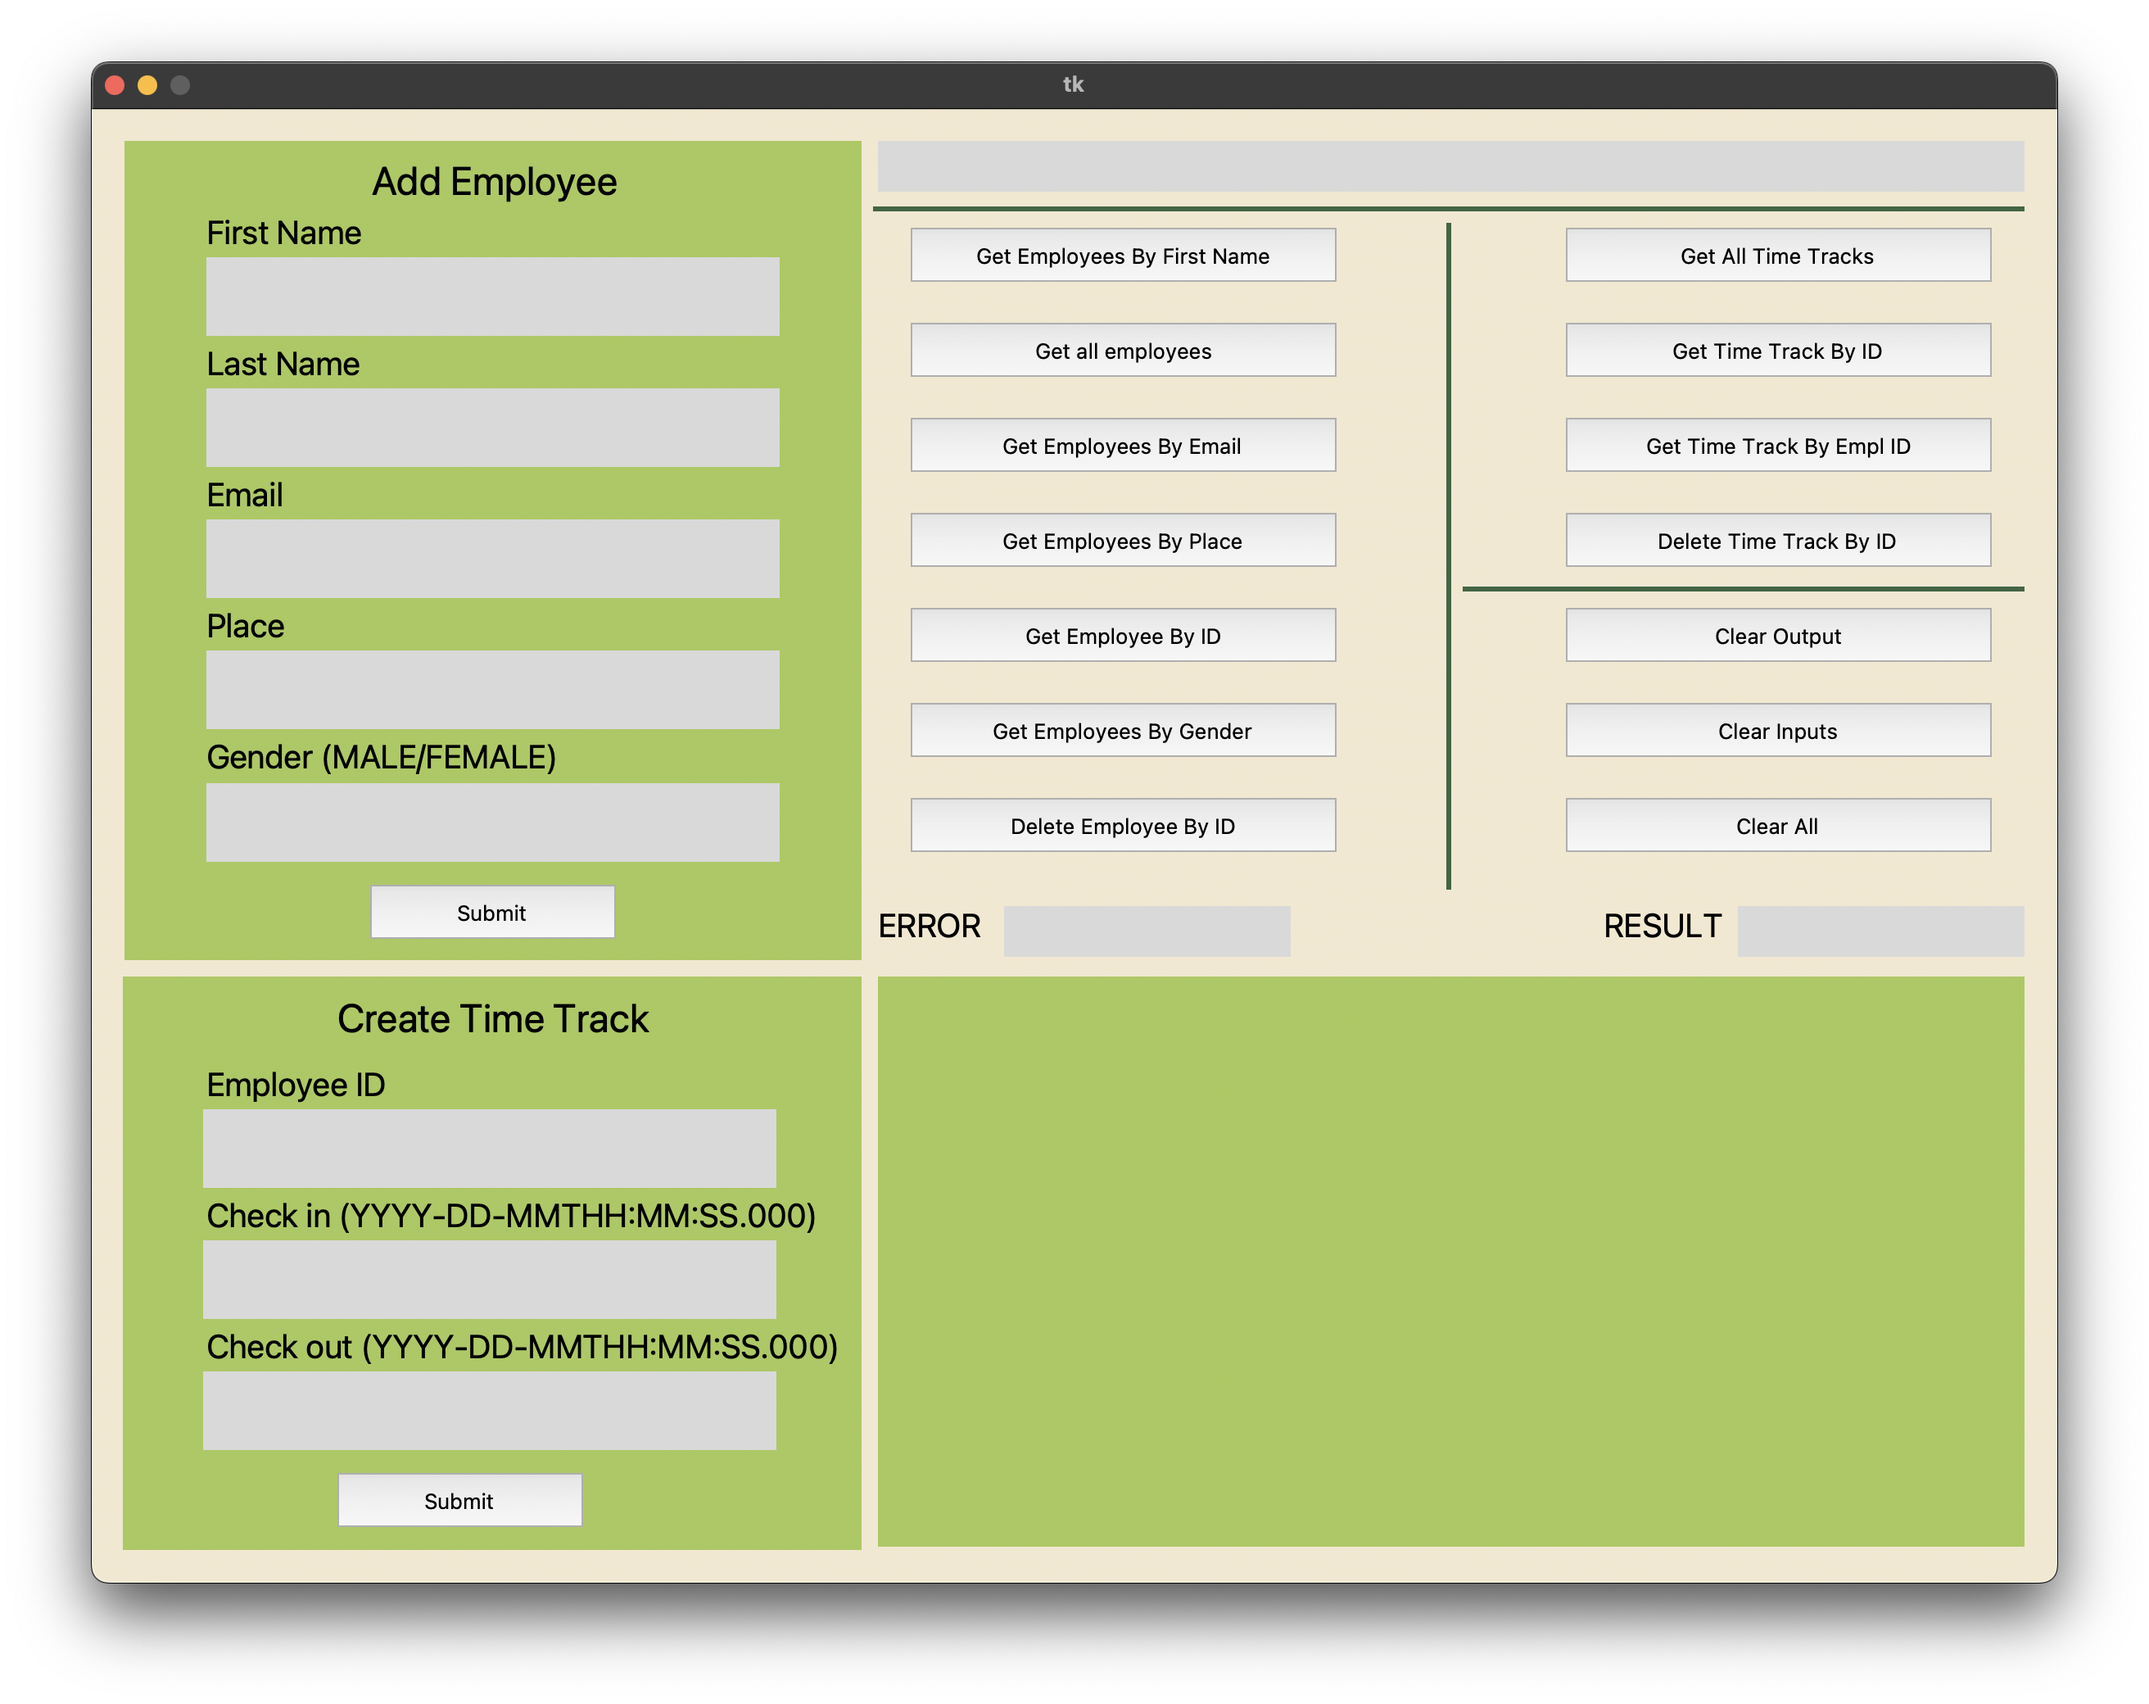
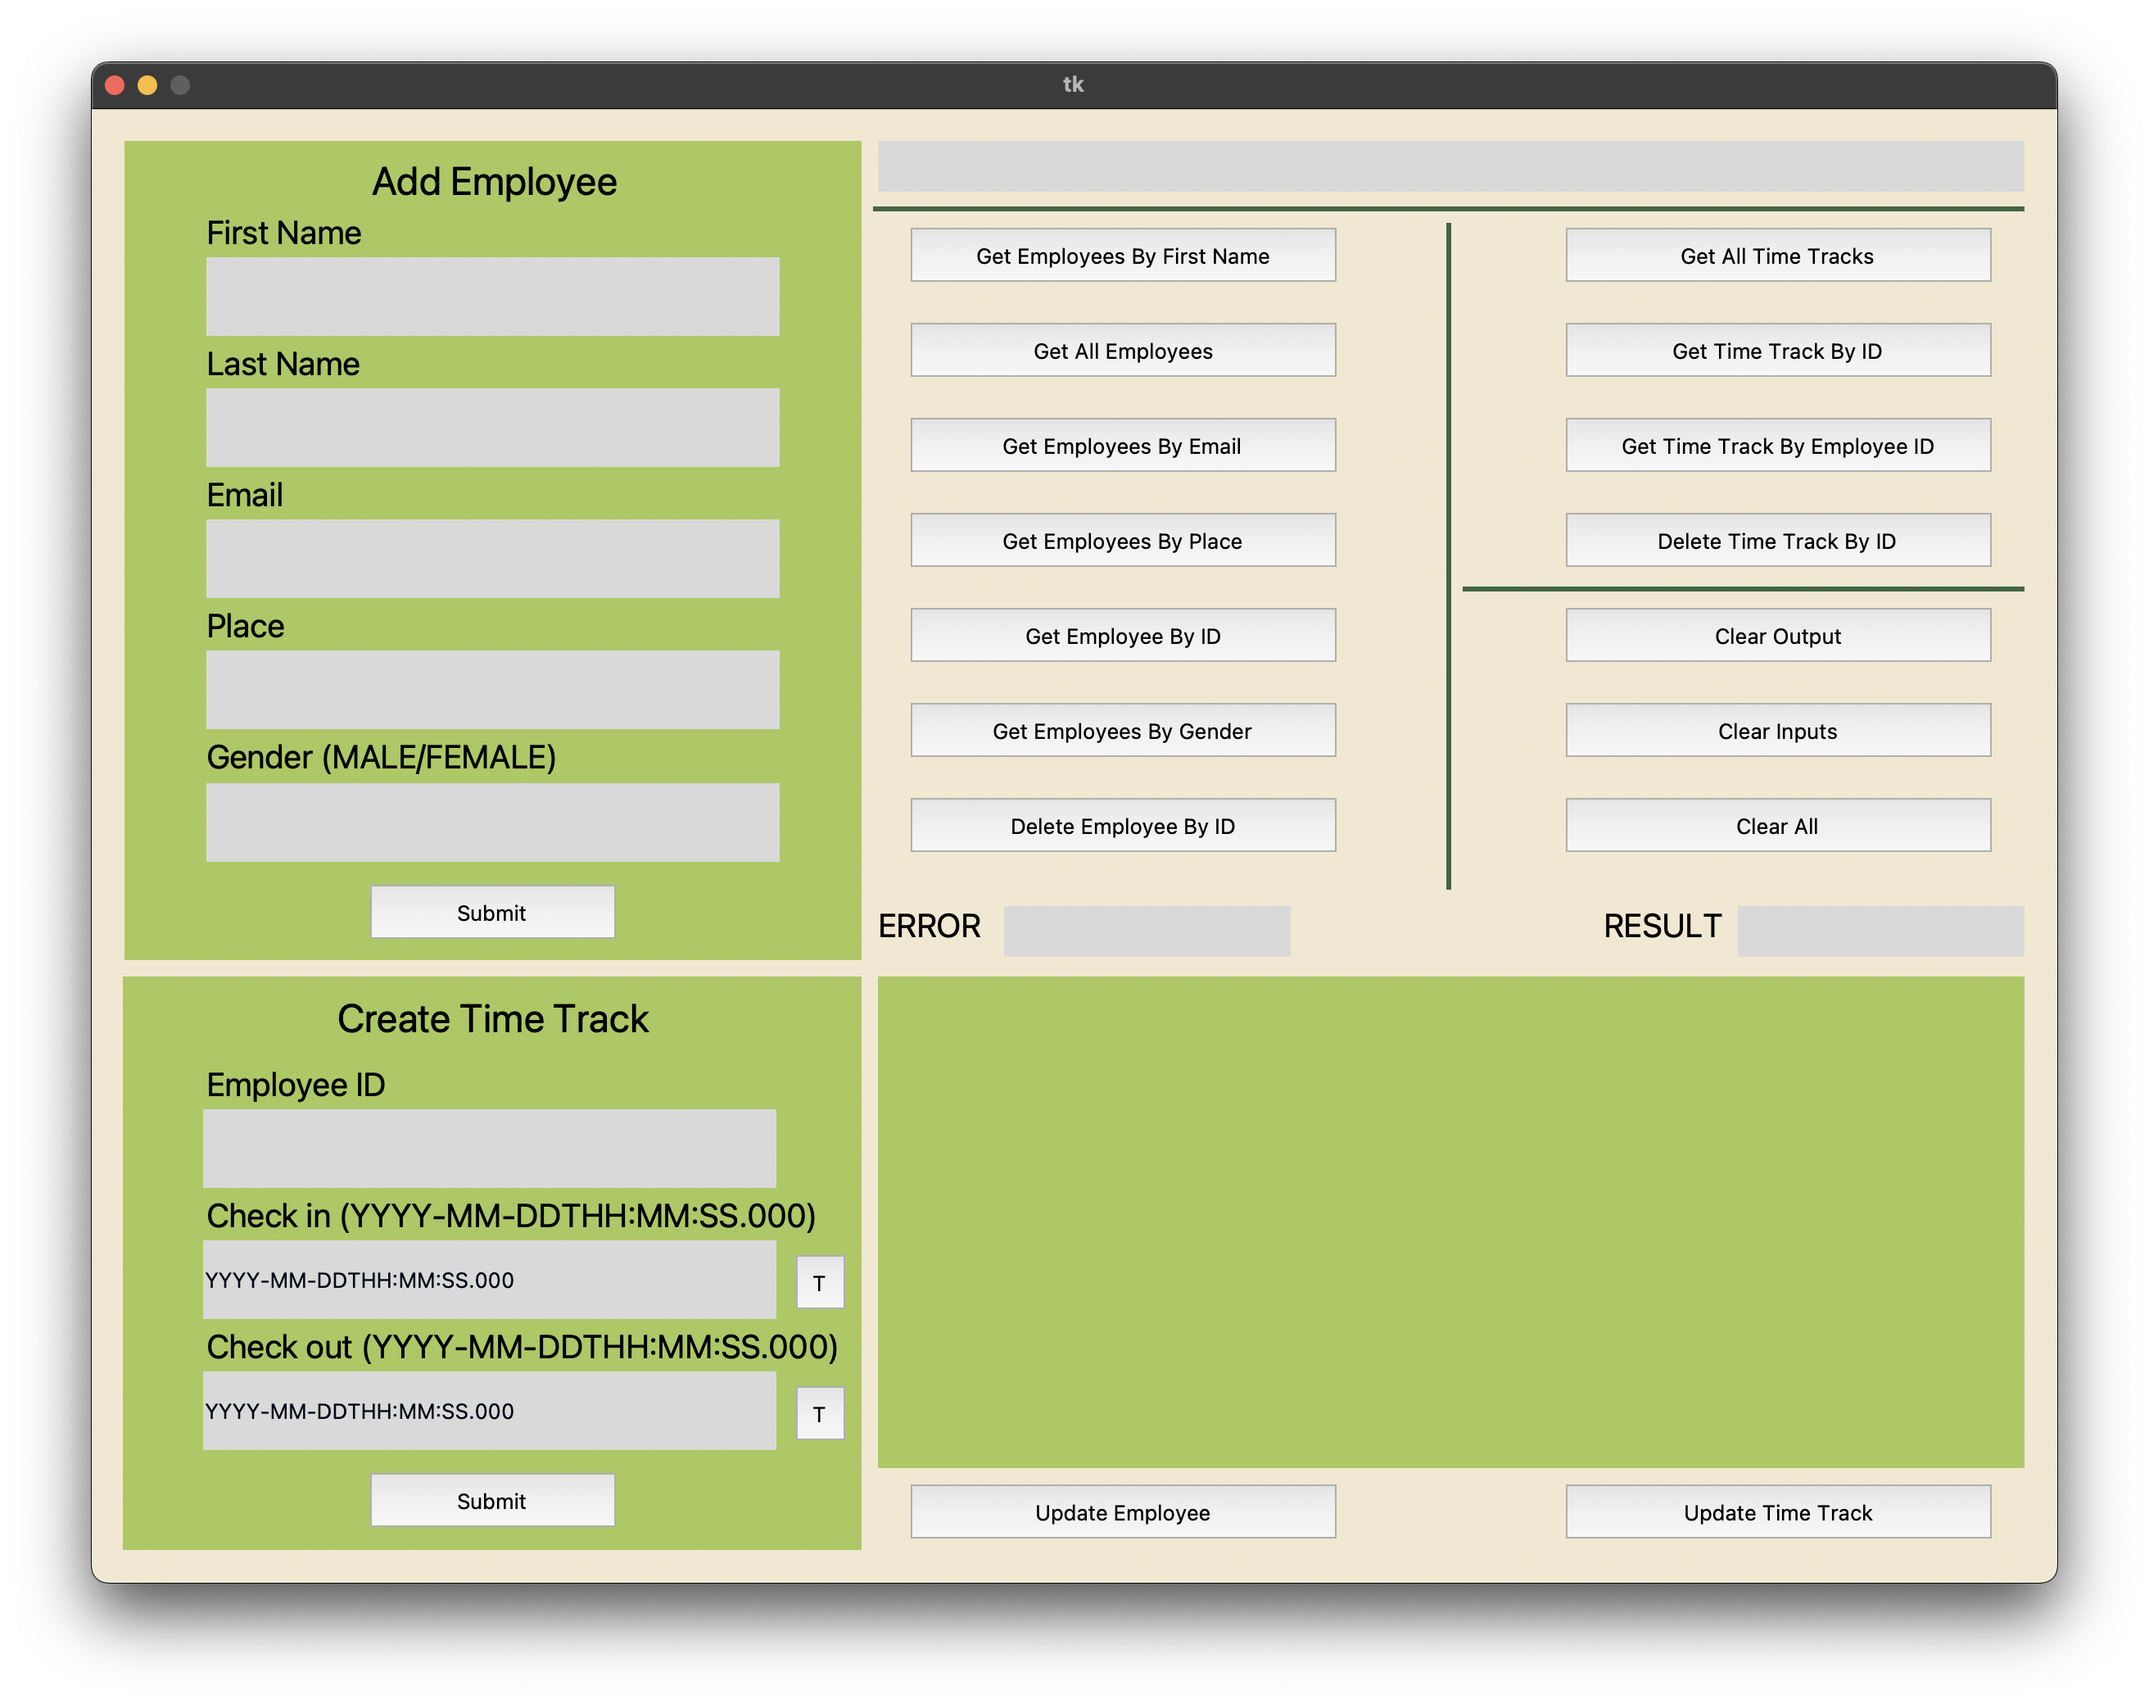
Changed Readme

diff --git a/client/gui.py b/client/gui.py
@@ -369,7 +369,6 @@ def check_employee_first_name():
 def check_employee_last_name():
     if add_employee_last_name_entry.get() == '':
         return False
-    print(add_employee_last_name_entry.get().isalpha())
     return add_employee_last_name_entry.get().isalpha()
 
 

diff --git a/README.md b/README.md
@@ -1,11 +1,12 @@
 # Table of Content
 
 - [Description](#description)
+- [User Guide](#user-guide)
 - [Technologies Used](#technologies-used)
 - [Versions](#versions)
 - [Database](#database--mongodb)
-  - [Connect app to MongoDB](#connect-app-to-mongodb)
-  - [Create database](#create-a-database-in-mongodb)
+    - [Connect app to MongoDB](#connect-app-to-mongodb)
+    - [Create database](#create-a-database-in-mongodb)
 - [Server](#server--spring)
 - [Block Diagram](#block-diagram)
 - [Activity Diagram](#activity-diagram)
@@ -13,10 +14,37 @@
 - [Color Palette](#color-palette)
 - [Encountered Errors](#encountered-errors)
 
-
 # Description
 
-This is a project that mimic an employee time tracking in a company. The server side is written in *Java* with the help of **Spring Boot** framework. All the data is stored in a **MongoDB** database using *JSON*. The GUI is a window application made using *Python* language and **Tkinter** library.
+This is a project that mimic an employee time tracking in a company. The server side is written in *Java* with the help
+of **Spring Boot** framework. All the data is stored in a **MongoDB** database using *JSON*. The GUI is a window
+application made using *Python* language and **Tkinter** library.
+
+# User Guide
+
+| Request | Name                            | Type   | Input                                                                                     | Output     | Obs                             |
+|---------|---------------------------------|--------|-------------------------------------------------------------------------------------------|------------|---------------------------------|
+| GET     | Get Employees By First Name     | Button | Employee First Name                                                                       | LIST       |                                 |
+| GET     | Get All Employees               | Button |                                                                                           | LIST       |                                 |
+| GET     | Get Employees By Email          | Button | Employee Email                                                                            | LIST       |                                 |
+| GET     | Get Employess By Place          | Button | Employee Place                                                                            | LIST       |                                 |
+| GET     | Get Employee by ID              | Button | Employee ID                                                                               | LIST       |                                 |
+| GET     | Get Employees By Gender         | Button | Employee Gender                                                                           | LIST       |                                 |
+| GET     | Get All Time Tracks             | Button |                                                                                           | LIST       |                                 |
+| GET     | Get Time Track By ID            | Button | Time Track ID                                                                             | LIST       |                                 |
+| GET     | Get Time Track By Employee ID   | Button | Employee ID                                                                               | LIST       |                                 |
+| DELETE  | Delete Employee By ID           | Button | Employee ID                                                                               | BOOL       |                                 |
+| DELETE  | Delete Time Track By ID         | Button | Time Track ID                                                                             | BOOL       |                                 |
+| PUT     | Update Employee                 | Button | - Employee ID (Top)<br/>- First Name<br/>- Last Name<br/>- Email<br/>- Place<br/>- Gender | EMPLOYEE   |                                 |
+| PUT     | Update Time Track               | Button | - Time Track ID (TOP)<br/>- Employee ID<br/>- Check in<br/>- Check out                    | TIME TRACK |                                 |
+| POST    | Employee Submit Button          | Button | - First Name<br/>- Last Name<br/>- Email<br/>- Place<br/>- Gender                         | EMPLOYEE   |                                 |
+| POST    | Time Track Submit Button        | Button | - Employee ID<br/>- Check in<br/>- Check out                                              | EMPLOYEE   |                                 |
+|         | Clear Output                    | Button |                                                                                           |            | Clear all output fields         |
+|         | Clear Inputs                    | Button |                                                                                           |            | Clear all input fields          |
+|         | Clear All                       | Button |                                                                                           |            | Clear all fields                |
+|         | T Buttons For Create Time Track | Button |                                                                                           |            | Automatically adds current time |
+
+- Info: All input fields have validation methods. The validation process is made on the *client* side.
 
 # Technologies used
 
@@ -27,30 +55,31 @@ This is a project that mimic an employee time tracking in a company. The server 
 - MongoDB
 - Python
 - Java
-- Postman 
+- Postman
 
 # Versions
 
 - IDEs
-  - Intellij : 2022.2.3 (Ultimate Edition)
-  - Visual Studio Code : 1.73.1 (Universal)
-  - PyCharm : 2022.2.3 (Ultimate Edition)
+    - Intellij : 2022.2.3 (Ultimate Edition)
+    - Visual Studio Code : 1.73.1 (Universal)
+    - PyCharm : 2022.2.3 (Ultimate Edition)
 - Server (**Spring**)
-  - Java : 1.8.0_351
-  - Java : 19.0.1
-  - Spring Boot : 2.7.5
-  - Swagger UI : 2.9.2 [[link]](https://mvnrepository.com/artifact/io.springfox/springfox-swagger-ui/2.9.2)
-  - Swagger2 : 2.9.2 [[link]](https://mvnrepository.com/artifact/io.springfox/springfox-swagger2/2.9.2)
+    - Java : 1.8.0_351
+    - Java : 19.0.1
+    - Spring Boot : 2.7.5
+    - Swagger UI : 2.9.2 [[link]](https://mvnrepository.com/artifact/io.springfox/springfox-swagger-ui/2.9.2)
+    - Swagger2 : 2.9.2 [[link]](https://mvnrepository.com/artifact/io.springfox/springfox-swagger2/2.9.2)
 - Database
-  - MongoDB : 6.0.1
+    - MongoDB : 6.0.1
 - Client (**Python**)
-  - pip : v22.3.1
-  - requests : 2.28.1
-  - python : 3.11
-  
+    - pip : v22.3.1
+    - requests : 2.28.1
+    - python : 3.11
+
 # Database ( MongoDB )
 
-1. Create an account [here](https://account.mongodb.com/account/login?n=%2Fv2%2F637b473ab187556c2fc555d9&nextHash=%23metrics%2FreplicaSet%2F637b481a780e9f6fd4236278%2Fexplorer%2Fwebapp%2Femployees%2Ffind)
+1. Create an
+   account [here](https://account.mongodb.com/account/login?n=%2Fv2%2F637b473ab187556c2fc555d9&nextHash=%23metrics%2FreplicaSet%2F637b481a780e9f6fd4236278%2Fexplorer%2Fwebapp%2Femployees%2Ffind)
 
 2. After creating the account you need to create your own cluster
 
@@ -60,7 +89,7 @@ This is a project that mimic an employee time tracking in a company. The server 
 
 ![database_connection](media/database_connect.png)
 
-2.  Select **MongoDB Drivers**
+2. Select **MongoDB Drivers**
 
 ![mongo_db_driver](media/mongo_db_drivers.png)
 
@@ -68,7 +97,8 @@ This is a project that mimic an employee time tracking in a company. The server 
 
 ![mongo_db_auth](media/mongo_db_auth.png)
 
-4. In your project in **application.properties** paste the following line of code and change the URI with the one made for you. Also add your password in the corresponding field.
+4. In your project in **application.properties** paste the following line of code and change the URI with the one made
+   for you. Also add your password in the corresponding field.
 
 ```
 spring.data.mongodb.uri= URI
@@ -108,7 +138,7 @@ spring.data.mongodb.database= <database_name>
 
 The user interface was made with the help of **Tkinter** library and **Tkinter Designer**.
 
-Tkinter Designer is a tool which takes a UI made in *Figma* and translates it into python code. 
+Tkinter Designer is a tool which takes a UI made in *Figma* and translates it into python code.
 
 Read the instructions and how to use Tkinter Designer [here](https://github.com/ParthJadhav/Tkinter-Designer)
 
@@ -120,7 +150,7 @@ Read the instructions and how to use Tkinter Designer [here](https://github.com/
 
 # Encountered Errors
 
-## Server 
+## Server
 
 1. > Web server failed to start. Port 8080 was already in use. (Server)
 
@@ -138,7 +168,6 @@ Change ID from whatever type to String type
 
 See
 here: [link](https://stackoverflow.com/questions/71351310/cannot-autogenerate-id-of-type-java-lang-long-for-entity-of-type-entity-mongod)
-
 
 ## UI
 
